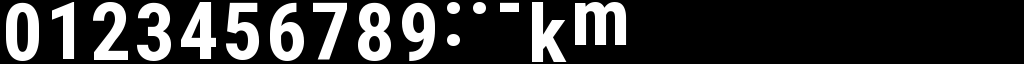
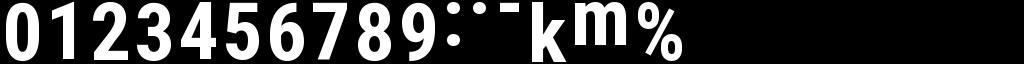
Fix % glyph: add to gen_font.py CHARS (was only in resources.xml filter)

Changed region(s): [[0.625, 0.0312, 0.6875, 0.9375]]

diff --git a/tools/gen_font.py b/tools/gen_font.py
@@ -9,7 +9,7 @@ Outputs: big_numbers.fnt + big_numbers_0.png
 import sys
 from PIL import Image, ImageFont, ImageDraw
 
-CHARS = "0123456789:.-km "
+CHARS = "0123456789:.-km% "
 
 def gen_bmfont(ttf_path, size, out_prefix):
     font = ImageFont.truetype(ttf_path, size)
